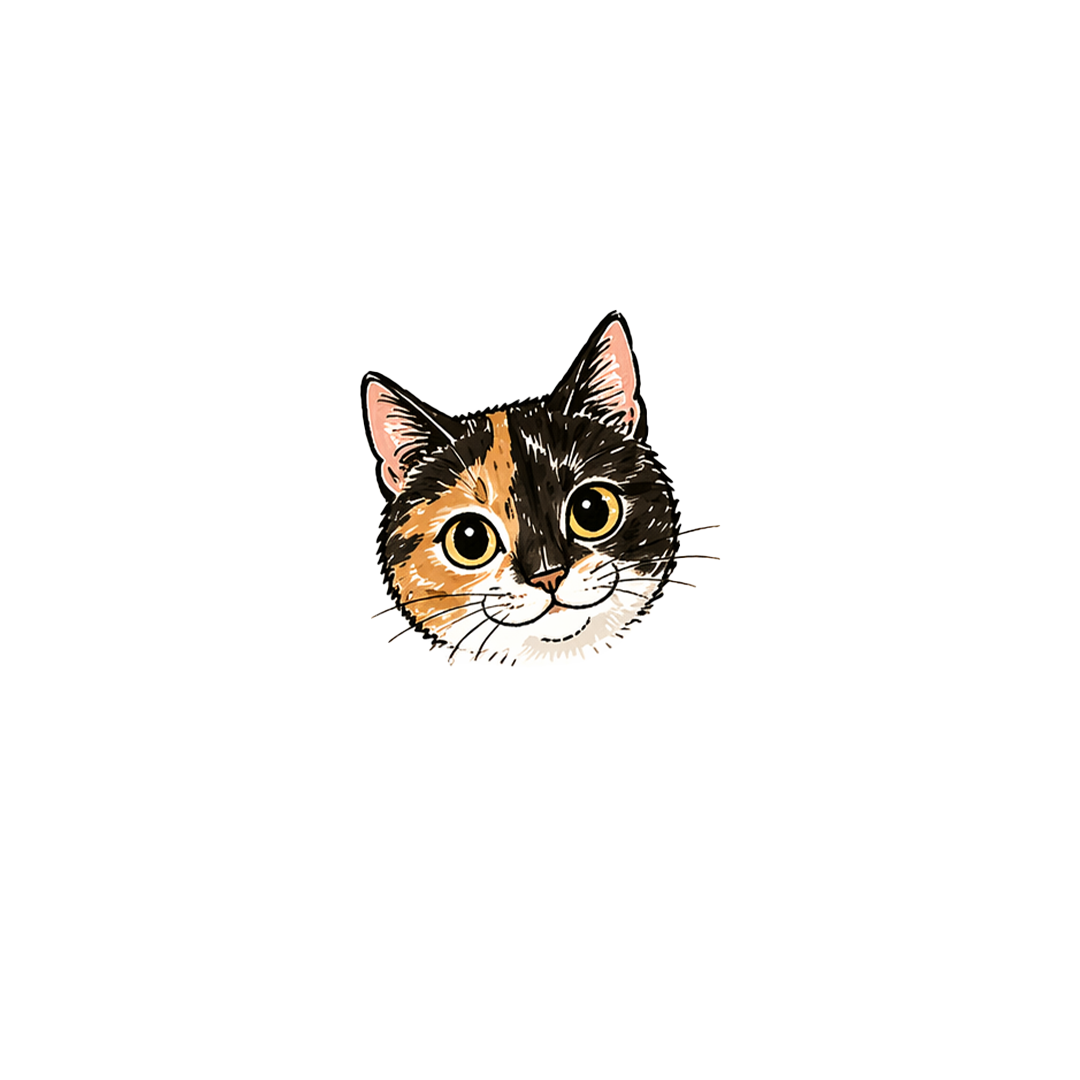
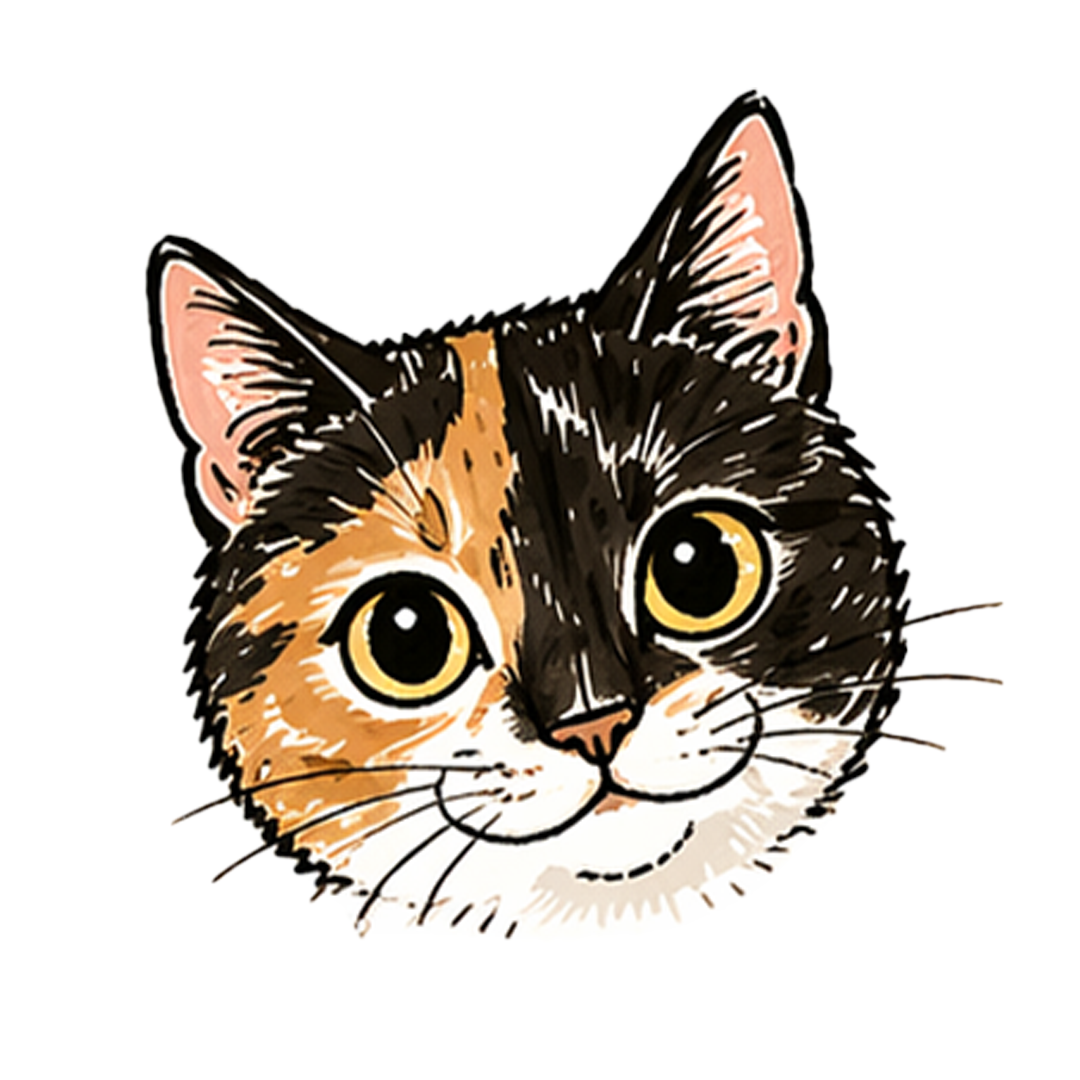
Use supplied home hero artwork

diff --git a/src/app/page.tsx b/src/app/page.tsx
@@ -74,64 +74,14 @@ export default function HomePage() {
 
         <div className="fini-home-visual">
           <div className="fini-home-artboard">
-            <span className="fini-home-doodle fini-home-doodle-paw">
-              <Image src="/brand/paw-doodle.png" alt="" fill sizes="72px" />
-            </span>
-            <span className="fini-home-doodle fini-home-doodle-heart">
-              <Image src="/brand/heart-doodle.png" alt="" fill sizes="48px" />
-            </span>
-
-            <div className="fini-home-scene">
-              <div className="fini-home-cat-asset">
-                <Image
-                  src="/brand/cat-sit-hero.png"
-                  alt="坐在木架上的手繪貓咪插畫"
-                  fill
-                  sizes="(max-width: 900px) 280px, 420px"
-                  className="fini-home-object"
-                />
-              </div>
-
-              <div className="fini-home-shelf-asset">
-                <Image
-                  src="/brand/wood-shelf-hero.png"
-                  alt=""
-                  fill
-                  sizes="(max-width: 900px) 360px, 520px"
-                  className="fini-home-object"
-                />
-              </div>
-
-              <div className="fini-home-vase-asset">
-                <Image
-                  src="/brand/glass-vase.png"
-                  alt="玻璃花瓶插畫"
-                  fill
-                  sizes="120px"
-                  className="fini-home-object"
-                />
-              </div>
-
-              <div className="fini-home-serum-asset">
-                <Image
-                  src="/brand/serum-bottle.png"
-                  alt="精華瓶插畫"
-                  fill
-                  sizes="110px"
-                  className="fini-home-object"
-                />
-              </div>
-
-              <div className="fini-home-jar-asset">
-                <Image
-                  src="/brand/cream-jar.png"
-                  alt="面霜罐插畫"
-                  fill
-                  sizes="110px"
-                  className="fini-home-object"
-                />
-              </div>
-            </div>
+            <Image
+              src="/brand/home-hero-art.png"
+              alt="Neaty Beauty 首頁主視覺插畫"
+              fill
+              sizes="(max-width: 900px) 100vw, 46vw"
+              className="fini-home-hero-image"
+              priority
+            />
           </div>
         </div>
       </section>

diff --git a/src/app/globals.css b/src/app/globals.css
@@ -1692,81 +1692,10 @@
   overflow: hidden;
 }
 
-.fini-home-scene {
-  position: absolute;
-  inset: 0;
-}
-
-.fini-home-object {
+.fini-home-hero-image {
   object-fit: contain;
-}
-
-.fini-home-doodle {
-  position: absolute;
-  opacity: 0.32;
-  pointer-events: none;
-}
-
-.fini-home-doodle-paw {
-  width: 74px;
-  height: 74px;
-  top: 64px;
-  right: 86px;
-}
-
-.fini-home-doodle-heart {
-  width: 42px;
-  height: 42px;
-  top: 182px;
-  left: 90px;
-}
-
-.fini-home-cat-asset,
-.fini-home-shelf-asset,
-.fini-home-vase-asset,
-.fini-home-serum-asset,
-.fini-home-jar-asset {
-  position: absolute;
-}
-
-.fini-home-cat-asset {
-  width: min(58%, 340px);
-  height: min(72%, 390px);
-  right: 20%;
-  bottom: 72px;
-  z-index: 3;
-}
-
-.fini-home-shelf-asset {
-  width: min(82%, 480px);
-  height: 118px;
-  right: 7%;
-  bottom: 40px;
-  z-index: 1;
-}
-
-.fini-home-vase-asset {
-  width: min(17%, 88px);
-  height: min(34%, 180px);
-  right: 22%;
-  bottom: 108px;
-  z-index: 2;
-}
-
-.fini-home-serum-asset {
-  width: min(14%, 74px);
-  height: min(28%, 148px);
-  right: 12%;
-  bottom: 104px;
-  z-index: 2;
-}
-
-.fini-home-jar-asset {
-  width: min(15%, 82px);
-  height: min(19%, 94px);
-  right: 3%;
-  bottom: 100px;
-  z-index: 2;
+  object-position: center;
+  padding: 30px;
 }
 
 .fini-home-features {
@@ -1930,48 +1859,8 @@
     border-radius: 28px;
   }
 
-  .fini-home-doodle-paw {
-    top: 42px;
-    right: 44px;
-  }
-
-  .fini-home-doodle-heart {
-    left: 38px;
-    top: 132px;
-  }
-
-  .fini-home-cat-asset {
-    width: min(63%, 280px);
-    height: 300px;
-    right: 17%;
-    bottom: 64px;
-  }
-
-  .fini-home-shelf-asset {
-    width: min(88%, 360px);
-    bottom: 34px;
-    right: 4%;
-  }
-
-  .fini-home-vase-asset {
-    width: 68px;
-    height: 136px;
-    right: 21%;
-    bottom: 98px;
-  }
-
-  .fini-home-serum-asset {
-    width: 60px;
-    height: 120px;
-    right: 11%;
-    bottom: 96px;
-  }
-
-  .fini-home-jar-asset {
-    width: 62px;
-    height: 70px;
-    right: 3%;
-    bottom: 92px;
+  .fini-home-hero-image {
+    padding: 18px;
   }
 
   .fini-home-features {
